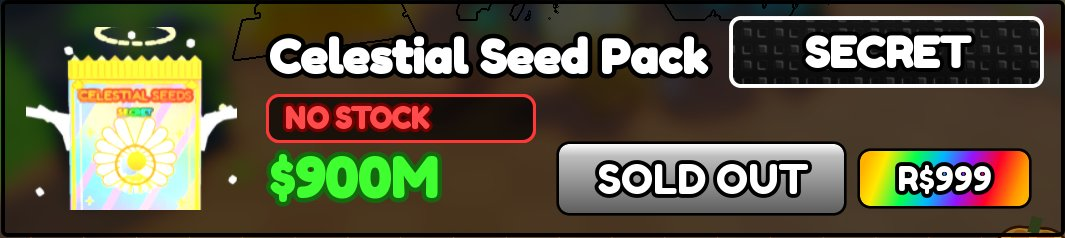
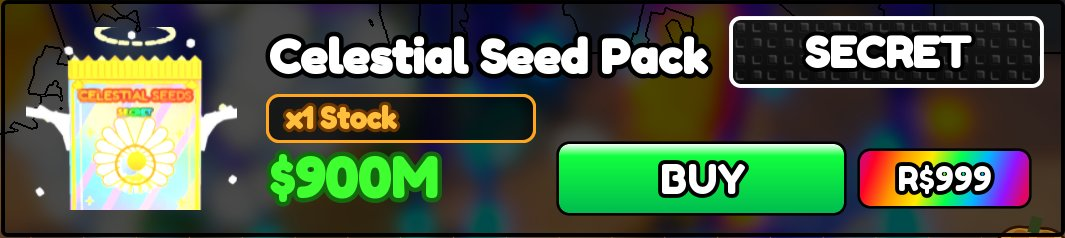
Mise a jour des stats

diff --git a/historique.js b/historique.js
@@ -1,4 +1,4 @@
-window.HISTORY = [["2026-10-14T00:55:39", "debut", "", ""], ["2026-10-14T01:25:29", "stock", "seed", "Spooky Seed Pack"], ["2026-10-14T01:30:10", "stock", "seed", "Celestial Seed Pack"], ["2026-10-14T02:05:31", "stock", "seed", "Spooky Seed Pack"], ["2026-10-14T02:40:12", "stock", "seed", "Celestial Seed Pack"], ["2026-10-14T02:40:12", "fin", "", ""], ["2026-10-14T06:29:55", "debut", "", ""], ["2026-10-14T07:09:20", "stock", "eggs", "Inferno Egg"], ["2026-10-14T07:09:22", "stock", "eggs", "Solar Egg"], ["2026-10-14T08:30:22", "stock", "seed", "Celestial Seed Pack"], ["2026-10-14T09:46:36", "fin", "", ""], ["2026-10-14T10:49:48", "debut", "", ""], ["2026-10-14T11:17:42", "fin", "", ""], ["2026-10-14T11:25:19", "debut", "", ""], ["2026-10-14T11:56:44", "fin", "", ""], ["2026-10-14T12:49:54", "debut", "", ""], ["2026-10-14T14:45:01", "stock", "seed", "Celestial Seed Pack"], ["2026-10-14T16:45:05", "stock", "seed", "Spooky Seed Pack"], ["2026-10-14T18:32:27", "stock", "seed", "Celestial Seed Pack"], ["2026-10-14T18:35:08", "stock", "seed", "Mutant Seed Pack"], ["2026-10-14T19:00:28", "stock", "seed", "Void Seed Pack"], ["2026-10-14T19:09:54", "fin", "", ""], ["2026-10-14T19:15:13", "debut", "", ""], ["2026-10-14T19:15:38", "stock", "seed", "Spooky Seed Pack"], ["2026-10-14T19:19:49", "fin", "", ""], ["2026-10-14T19:21:52", "debut", "", ""], ["2026-10-14T19:35:38", "stock", "seed", "Mutant Seed Pack"], ["2026-10-14T20:10:19", "stock", "seed", "Mutant Seed Pack"], ["2026-10-14T20:28:39", "stock", "eggs", "Inferno Egg"], ["2026-10-14T20:45:00", "stock", "seed", "Mutant Seed Pack"], ["2026-10-14T20:45:02", "stock", "seed", "Celestial Seed Pack"], ["2026-10-14T20:55:00", "stock", "seed", "Mutant Seed Pack"], ["2026-10-14T21:35:29", "fin", "", ""], ["2026-10-14T23:15:27", "debut", "", ""], ["2026-10-14T23:25:12", "stock", "seed", "Celestial Seed Pack"], ["2026-10-14T23:35:12", "stock", "seed", "Spooky Seed Pack"], ["2026-10-14T23:45:13", "stock", "seed", "Celestial Seed Pack"], ["2026-10-14T23:55:13", "stock", "seed", "Void Seed Pack"], ["2026-10-15T01:07:19", "fin", "", ""], ["2026-10-15T01:20:12", "debut", "", ""], ["2026-10-15T01:20:28", "fin", "", ""], ["2026-10-15T01:20:33", "debut", "", ""], ["2026-10-15T01:25:03", "stock", "seed", "Mutant Seed Pack"], ["2026-10-15T02:15:00", "stock", "seed", "Spooky Seed Pack"], ["2026-10-15T02:22:36", "stock", "eggs", "Inferno Egg"], ["2026-10-15T02:22:56", "stock", "eggs", "Inferno Egg"], ["2026-10-15T02:23:16", "stock", "eggs", "Inferno Egg"], ["2026-10-15T02:23:36", "stock", "eggs", "Inferno Egg"], ["2026-10-15T02:27:40", "fin", "", ""], ["2026-10-15T02:28:43", "debut", "", ""], ["2026-10-15T02:32:00", "fin", "", ""], ["2026-10-15T02:35:35", "debut", "", ""], ["2026-10-15T02:45:20", "stock", "seed", "Celestial Seed Pack"], ["2026-10-15T02:45:40", "stock", "eggs", "Solar Egg"], ["2026-10-15T02:50:00", "stock", "seed", "Mutant Seed Pack"], ["2026-10-15T05:20:04", "stock", "seed", "Spooky Seed Pack"], ["2026-10-15T05:25:24", "stock", "seed", "Void Seed Pack"], ["2026-10-15T05:55:25", "stock", "seed", "Mutant Seed Pack"], ["2026-10-15T07:15:27", "stock", "seed", "Celestial Seed Pack"], ["2026-10-15T07:30:07", "stock", "seed", "Celestial Seed Pack"], ["2026-10-15T07:50:08", "stock", "seed", "Mutant Seed Pack"], ["2026-10-15T08:04:28", "stock", "eggs", "Sealed Eye Egg"], ["2026-10-15T08:45:29", "stock", "seed", "Celestial Seed Pack"], ["2026-10-15T09:50:11", "stock", "seed", "Mutant Seed Pack"], ["2026-10-15T09:50:14", "stock", "seed", "Celestial Seed Pack"], ["2026-10-15T10:30:12", "stock", "seed", "Mutant Seed Pack"], ["2026-10-15T11:03:05", "fin", "", ""], ["2026-10-15T11:13:30", "debut", "", ""], ["2026-10-15T11:17:01", "fin", "", ""], ["2026-10-15T12:26:22", "debut", "", ""], ["2026-10-15T12:35:27", "stock", "seed", "Mutant Seed Pack"], ["2026-10-15T13:00:07", "stock", "seed", "Void Seed Pack"], ["2026-10-15T13:01:59", "fin", "", ""], ["2026-10-15T13:03:01", "debut", "", ""], ["2026-10-15T13:05:26", "stock", "seed", "Celestial Seed Pack"], ["2026-10-15T13:10:06", "stock", "seed", "Mutant Seed Pack"], ["2026-10-15T13:10:43", "fin", "", ""], ["2026-10-15T13:11:47", "debut", "", ""], ["2026-10-15T14:30:14", "stock", "seed", "Spooky Seed Pack"], ["2026-10-15T14:40:14", "stock", "seed", "Mutant Seed Pack"], ["2026-10-15T16:37:57", "stock", "eggs", "Inferno Egg"], ["2026-10-15T16:50:18", "stock", "seed", "Spooky Seed Pack"], ["2026-10-15T17:15:38", "stock", "seed", "Void Seed Pack"], ["2026-10-15T18:45:01", "stock", "seed", "Spooky Seed Pack"], ["2026-10-15T19:15:02", "stock", "seed", "Mutant Seed Pack"], ["2026-10-15T20:45:00", "stock", "seed", "Celestial Seed Pack"], ["2026-10-15T21:27:32", "fin", "", ""], ["2026-10-15T21:33:02", "debut", "", ""], ["2026-10-15T23:10:29", "fin", "", ""], ["2026-10-16T00:20:07", "debut", "", ""], ["2026-10-16T00:52:33", "stock", "seed", "Mutant Seed Pack"], ["2026-10-16T01:20:34", "stock", "seed", "Mutant Seed Pack"], ["2026-10-16T01:20:34", "stock", "seed", "Celestial Seed Pack"], ["2026-10-16T02:00:35", "stock", "seed", "Spooky Seed Pack"], ["2026-10-16T02:40:36", "stock", "seed", "Spooky Seed Pack"], ["2026-10-16T02:45:16", "stock", "seed", "Spooky Seed Pack"], ["2026-10-16T03:55:17", "stock", "seed", "Mutant Seed Pack"], ["2026-10-16T04:10:38", "stock", "seed", "Mutant Seed Pack"], ["2026-10-16T05:50:00", "stock", "seed", "Spooky Seed Pack"], ["2026-10-16T06:35:21", "stock", "seed", "Spooky Seed Pack"], ["2026-10-16T06:40:01", "stock", "seed", "Celestial Seed Pack"], ["2026-10-16T06:50:01", "stock", "seed", "Void Seed Pack"], ["2026-10-16T07:10:02", "stock", "seed", "Mutant Seed Pack"], ["2026-10-16T08:32:47", "fin", "", ""], ["2026-10-16T08:48:47", "debut", "", ""], ["2026-10-16T08:50:31", "stock", "seed", "Void Seed Pack"], ["2026-10-16T09:00:32", "stock", "seed", "Mutant Seed Pack"], ["2026-10-16T09:24:32", "fin", "", ""], ["2026-10-16T09:25:26", "debut", "", ""], ["2026-10-16T09:45:11", "stock", "seed", "Void Seed Pack"], ["2026-10-16T10:20:32", "stock", "seed", "Void Seed Pack"], ["2026-10-16T11:10:33", "stock", "seed", "Spooky Seed Pack"], ["2026-10-16T11:28:53", "stock", "eggs", "Solar Egg"], ["2026-10-16T12:10:34", "stock", "seed", "Spooky Seed Pack"], ["2026-10-16T13:03:50", "fin", "", ""], ["2026-10-16T13:08:05", "debut", "", ""], ["2026-10-16T13:15:29", "stock", "eggs", "Solar Egg"], ["2026-10-16T14:37:31", "stock", "eggs", "Inferno Egg"], ["2026-10-16T15:07:31", "fin", "", ""], ["2026-10-16T15:12:42", "debut", "", ""], ["2026-10-16T15:35:07", "stock", "seed", "Celestial Seed Pack"], ["2026-10-16T16:00:28", "stock", "seed", "Mutant Seed Pack"], ["2026-10-16T16:20:28", "stock", "seed", "Celestial Seed Pack"], ["2026-10-16T17:55:11", "stock", "seed", "Celestial Seed Pack"], ["2026-10-16T19:10:33", "stock", "seed", "Void Seed Pack"], ["2026-10-16T19:23:33", "stock", "eggs", "Inferno Egg"], ["2026-10-16T19:26:13", "stock", "eggs", "Sealed Eye Egg"], ["2026-10-16T19:30:08", "fin", "", ""], ["2026-10-16T19:31:11", "debut", "", ""], ["2026-10-16T19:40:16", "stock", "seed", "Mutant Seed Pack"], ["2026-10-16T21:02:37", "fin", "", ""], ["2026-10-16T23:01:21", "debut", "", ""], ["2026-10-16T23:01:30", "fin", "", ""], ["2026-10-16T23:03:40", "debut", "", ""], ["2026-10-16T23:03:43", "fin", "", ""], ["2026-10-16T23:06:38", "debut", "", ""], ["2026-10-16T23:06:41", "fin", "", ""], ["2026-10-16T23:09:21", "debut", "", ""], ["2026-10-16T23:09:29", "fin", "", ""], ["2026-10-16T23:15:48", "debut", "", ""], ["2026-10-17T00:00:14", "stock", "seed", "Spooky Seed Pack"], ["2026-10-17T00:21:33", "fin", "", ""], ["2026-10-17T00:35:25", "debut", "", ""], ["2026-10-17T00:35:49", "stock", "seed", "Spooky Seed Pack"], ["2026-10-17T00:35:55", "fin", "", ""], ["2026-10-17T00:55:32", "debut", "", ""], ["2026-10-17T00:55:59", "stock", "seed", "Celestial Seed Pack"], ["2026-10-17T00:56:02", "fin", "", ""], ["2026-10-17T01:10:53", "debut", "", ""], ["2026-10-17T01:10:58", "stock", "eggs", "Sealed Eye Egg"], ["2026-10-17T01:11:17", "stock", "seed", "Spooky Seed Pack"], ["2026-10-17T01:11:23", "fin", "", ""], ["2026-10-17T01:50:53", "debut", "", ""]];
+window.HISTORY = [["2026-10-14T00:55:39", "debut", "", ""], ["2026-10-14T01:25:29", "stock", "seed", "Spooky Seed Pack"], ["2026-10-14T01:30:10", "stock", "seed", "Celestial Seed Pack"], ["2026-10-14T02:05:31", "stock", "seed", "Spooky Seed Pack"], ["2026-10-14T02:40:12", "stock", "seed", "Celestial Seed Pack"], ["2026-10-14T02:40:12", "fin", "", ""], ["2026-10-14T06:29:55", "debut", "", ""], ["2026-10-14T07:09:20", "stock", "eggs", "Inferno Egg"], ["2026-10-14T07:09:22", "stock", "eggs", "Solar Egg"], ["2026-10-14T08:30:22", "stock", "seed", "Celestial Seed Pack"], ["2026-10-14T09:46:36", "fin", "", ""], ["2026-10-14T10:49:48", "debut", "", ""], ["2026-10-14T11:17:42", "fin", "", ""], ["2026-10-14T11:25:19", "debut", "", ""], ["2026-10-14T11:56:44", "fin", "", ""], ["2026-10-14T12:49:54", "debut", "", ""], ["2026-10-14T14:45:01", "stock", "seed", "Celestial Seed Pack"], ["2026-10-14T16:45:05", "stock", "seed", "Spooky Seed Pack"], ["2026-10-14T18:32:27", "stock", "seed", "Celestial Seed Pack"], ["2026-10-14T18:35:08", "stock", "seed", "Mutant Seed Pack"], ["2026-10-14T19:00:28", "stock", "seed", "Void Seed Pack"], ["2026-10-14T19:09:54", "fin", "", ""], ["2026-10-14T19:15:13", "debut", "", ""], ["2026-10-14T19:15:38", "stock", "seed", "Spooky Seed Pack"], ["2026-10-14T19:19:49", "fin", "", ""], ["2026-10-14T19:21:52", "debut", "", ""], ["2026-10-14T19:35:38", "stock", "seed", "Mutant Seed Pack"], ["2026-10-14T20:10:19", "stock", "seed", "Mutant Seed Pack"], ["2026-10-14T20:28:39", "stock", "eggs", "Inferno Egg"], ["2026-10-14T20:45:00", "stock", "seed", "Mutant Seed Pack"], ["2026-10-14T20:45:02", "stock", "seed", "Celestial Seed Pack"], ["2026-10-14T20:55:00", "stock", "seed", "Mutant Seed Pack"], ["2026-10-14T21:35:29", "fin", "", ""], ["2026-10-14T23:15:27", "debut", "", ""], ["2026-10-14T23:25:12", "stock", "seed", "Celestial Seed Pack"], ["2026-10-14T23:35:12", "stock", "seed", "Spooky Seed Pack"], ["2026-10-14T23:45:13", "stock", "seed", "Celestial Seed Pack"], ["2026-10-14T23:55:13", "stock", "seed", "Void Seed Pack"], ["2026-10-15T01:07:19", "fin", "", ""], ["2026-10-15T01:20:12", "debut", "", ""], ["2026-10-15T01:20:28", "fin", "", ""], ["2026-10-15T01:20:33", "debut", "", ""], ["2026-10-15T01:25:03", "stock", "seed", "Mutant Seed Pack"], ["2026-10-15T02:15:00", "stock", "seed", "Spooky Seed Pack"], ["2026-10-15T02:22:36", "stock", "eggs", "Inferno Egg"], ["2026-10-15T02:22:56", "stock", "eggs", "Inferno Egg"], ["2026-10-15T02:23:16", "stock", "eggs", "Inferno Egg"], ["2026-10-15T02:23:36", "stock", "eggs", "Inferno Egg"], ["2026-10-15T02:27:40", "fin", "", ""], ["2026-10-15T02:28:43", "debut", "", ""], ["2026-10-15T02:32:00", "fin", "", ""], ["2026-10-15T02:35:35", "debut", "", ""], ["2026-10-15T02:45:20", "stock", "seed", "Celestial Seed Pack"], ["2026-10-15T02:45:40", "stock", "eggs", "Solar Egg"], ["2026-10-15T02:50:00", "stock", "seed", "Mutant Seed Pack"], ["2026-10-15T05:20:04", "stock", "seed", "Spooky Seed Pack"], ["2026-10-15T05:25:24", "stock", "seed", "Void Seed Pack"], ["2026-10-15T05:55:25", "stock", "seed", "Mutant Seed Pack"], ["2026-10-15T07:15:27", "stock", "seed", "Celestial Seed Pack"], ["2026-10-15T07:30:07", "stock", "seed", "Celestial Seed Pack"], ["2026-10-15T07:50:08", "stock", "seed", "Mutant Seed Pack"], ["2026-10-15T08:04:28", "stock", "eggs", "Sealed Eye Egg"], ["2026-10-15T08:45:29", "stock", "seed", "Celestial Seed Pack"], ["2026-10-15T09:50:11", "stock", "seed", "Mutant Seed Pack"], ["2026-10-15T09:50:14", "stock", "seed", "Celestial Seed Pack"], ["2026-10-15T10:30:12", "stock", "seed", "Mutant Seed Pack"], ["2026-10-15T11:03:05", "fin", "", ""], ["2026-10-15T11:13:30", "debut", "", ""], ["2026-10-15T11:17:01", "fin", "", ""], ["2026-10-15T12:26:22", "debut", "", ""], ["2026-10-15T12:35:27", "stock", "seed", "Mutant Seed Pack"], ["2026-10-15T13:00:07", "stock", "seed", "Void Seed Pack"], ["2026-10-15T13:01:59", "fin", "", ""], ["2026-10-15T13:03:01", "debut", "", ""], ["2026-10-15T13:05:26", "stock", "seed", "Celestial Seed Pack"], ["2026-10-15T13:10:06", "stock", "seed", "Mutant Seed Pack"], ["2026-10-15T13:10:43", "fin", "", ""], ["2026-10-15T13:11:47", "debut", "", ""], ["2026-10-15T14:30:14", "stock", "seed", "Spooky Seed Pack"], ["2026-10-15T14:40:14", "stock", "seed", "Mutant Seed Pack"], ["2026-10-15T16:37:57", "stock", "eggs", "Inferno Egg"], ["2026-10-15T16:50:18", "stock", "seed", "Spooky Seed Pack"], ["2026-10-15T17:15:38", "stock", "seed", "Void Seed Pack"], ["2026-10-15T18:45:01", "stock", "seed", "Spooky Seed Pack"], ["2026-10-15T19:15:02", "stock", "seed", "Mutant Seed Pack"], ["2026-10-15T20:45:00", "stock", "seed", "Celestial Seed Pack"], ["2026-10-15T21:27:32", "fin", "", ""], ["2026-10-15T21:33:02", "debut", "", ""], ["2026-10-15T23:10:29", "fin", "", ""], ["2026-10-16T00:20:07", "debut", "", ""], ["2026-10-16T00:52:33", "stock", "seed", "Mutant Seed Pack"], ["2026-10-16T01:20:34", "stock", "seed", "Mutant Seed Pack"], ["2026-10-16T01:20:34", "stock", "seed", "Celestial Seed Pack"], ["2026-10-16T02:00:35", "stock", "seed", "Spooky Seed Pack"], ["2026-10-16T02:40:36", "stock", "seed", "Spooky Seed Pack"], ["2026-10-16T02:45:16", "stock", "seed", "Spooky Seed Pack"], ["2026-10-16T03:55:17", "stock", "seed", "Mutant Seed Pack"], ["2026-10-16T04:10:38", "stock", "seed", "Mutant Seed Pack"], ["2026-10-16T05:50:00", "stock", "seed", "Spooky Seed Pack"], ["2026-10-16T06:35:21", "stock", "seed", "Spooky Seed Pack"], ["2026-10-16T06:40:01", "stock", "seed", "Celestial Seed Pack"], ["2026-10-16T06:50:01", "stock", "seed", "Void Seed Pack"], ["2026-10-16T07:10:02", "stock", "seed", "Mutant Seed Pack"], ["2026-10-16T08:32:47", "fin", "", ""], ["2026-10-16T08:48:47", "debut", "", ""], ["2026-10-16T08:50:31", "stock", "seed", "Void Seed Pack"], ["2026-10-16T09:00:32", "stock", "seed", "Mutant Seed Pack"], ["2026-10-16T09:24:32", "fin", "", ""], ["2026-10-16T09:25:26", "debut", "", ""], ["2026-10-16T09:45:11", "stock", "seed", "Void Seed Pack"], ["2026-10-16T10:20:32", "stock", "seed", "Void Seed Pack"], ["2026-10-16T11:10:33", "stock", "seed", "Spooky Seed Pack"], ["2026-10-16T11:28:53", "stock", "eggs", "Solar Egg"], ["2026-10-16T12:10:34", "stock", "seed", "Spooky Seed Pack"], ["2026-10-16T13:03:50", "fin", "", ""], ["2026-10-16T13:08:05", "debut", "", ""], ["2026-10-16T13:15:29", "stock", "eggs", "Solar Egg"], ["2026-10-16T14:37:31", "stock", "eggs", "Inferno Egg"], ["2026-10-16T15:07:31", "fin", "", ""], ["2026-10-16T15:12:42", "debut", "", ""], ["2026-10-16T15:35:07", "stock", "seed", "Celestial Seed Pack"], ["2026-10-16T16:00:28", "stock", "seed", "Mutant Seed Pack"], ["2026-10-16T16:20:28", "stock", "seed", "Celestial Seed Pack"], ["2026-10-16T17:55:11", "stock", "seed", "Celestial Seed Pack"], ["2026-10-16T19:10:33", "stock", "seed", "Void Seed Pack"], ["2026-10-16T19:23:33", "stock", "eggs", "Inferno Egg"], ["2026-10-16T19:26:13", "stock", "eggs", "Sealed Eye Egg"], ["2026-10-16T19:30:08", "fin", "", ""], ["2026-10-16T19:31:11", "debut", "", ""], ["2026-10-16T19:40:16", "stock", "seed", "Mutant Seed Pack"], ["2026-10-16T21:02:37", "fin", "", ""], ["2026-10-16T23:01:21", "debut", "", ""], ["2026-10-16T23:01:30", "fin", "", ""], ["2026-10-16T23:03:40", "debut", "", ""], ["2026-10-16T23:03:43", "fin", "", ""], ["2026-10-16T23:06:38", "debut", "", ""], ["2026-10-16T23:06:41", "fin", "", ""], ["2026-10-16T23:09:21", "debut", "", ""], ["2026-10-16T23:09:29", "fin", "", ""], ["2026-10-16T23:15:48", "debut", "", ""], ["2026-10-17T00:00:14", "stock", "seed", "Spooky Seed Pack"], ["2026-10-17T00:21:33", "fin", "", ""], ["2026-10-17T00:35:25", "debut", "", ""], ["2026-10-17T00:35:49", "stock", "seed", "Spooky Seed Pack"], ["2026-10-17T00:35:55", "fin", "", ""], ["2026-10-17T00:55:32", "debut", "", ""], ["2026-10-17T00:55:59", "stock", "seed", "Celestial Seed Pack"], ["2026-10-17T00:56:02", "fin", "", ""], ["2026-10-17T01:10:53", "debut", "", ""], ["2026-10-17T01:10:58", "stock", "eggs", "Sealed Eye Egg"], ["2026-10-17T01:11:17", "stock", "seed", "Spooky Seed Pack"], ["2026-10-17T01:11:23", "fin", "", ""], ["2026-10-17T01:50:53", "debut", "", ""], ["2026-10-17T02:00:38", "stock", "seed", "Celestial Seed Pack"]];
 window.ITEMS = [{"shop": "eggs", "name": "Inferno Egg"}, {"shop": "eggs", "name": "Solar Egg"}, {"shop": "eggs", "name": "Sealed Eye Egg"}, {"shop": "eggs", "name": "Abyss Egg"}, {"shop": "seed", "name": "Void Seed Pack"}, {"shop": "seed", "name": "Celestial Seed Pack"}, {"shop": "seed", "name": "Spooky Seed Pack"}, {"shop": "seed", "name": "Mutant Seed Pack"}];
-window.GENERATED = "2026-10-17T01:56:31";
+window.GENERATED = "2026-10-17T02:02:31";
 window.BOT = {"actif": true};

diff --git a/articles.js b/articles.js
@@ -1,1 +1,1 @@
-window.ARTICLE_IMAGES = {"Inferno Egg": "articles/inferno-egg.jpg?v=1792192117", "Solar Egg": "articles/solar-egg.jpg?v=1792192117", "Sealed Eye Egg": "articles/sealed-eye-egg.jpg?v=1792192258", "Abyss Egg": "articles/abyss-egg.jpg?v=1792192117", "Void Seed Pack": "articles/void-seed-pack.jpg?v=1792192117", "Celestial Seed Pack": "articles/celestial-seed-pack.jpg?v=1792192117", "Spooky Seed Pack": "articles/spooky-seed-pack.jpg?v=1792192278"};
+window.ARTICLE_IMAGES = {"Inferno Egg": "articles/inferno-egg.jpg?v=1792192117", "Solar Egg": "articles/solar-egg.jpg?v=1792192117", "Sealed Eye Egg": "articles/sealed-eye-egg.jpg?v=1792192258", "Abyss Egg": "articles/abyss-egg.jpg?v=1792192117", "Void Seed Pack": "articles/void-seed-pack.jpg?v=1792192117", "Celestial Seed Pack": "articles/celestial-seed-pack.jpg?v=1792195238", "Spooky Seed Pack": "articles/spooky-seed-pack.jpg?v=1792192278"};
